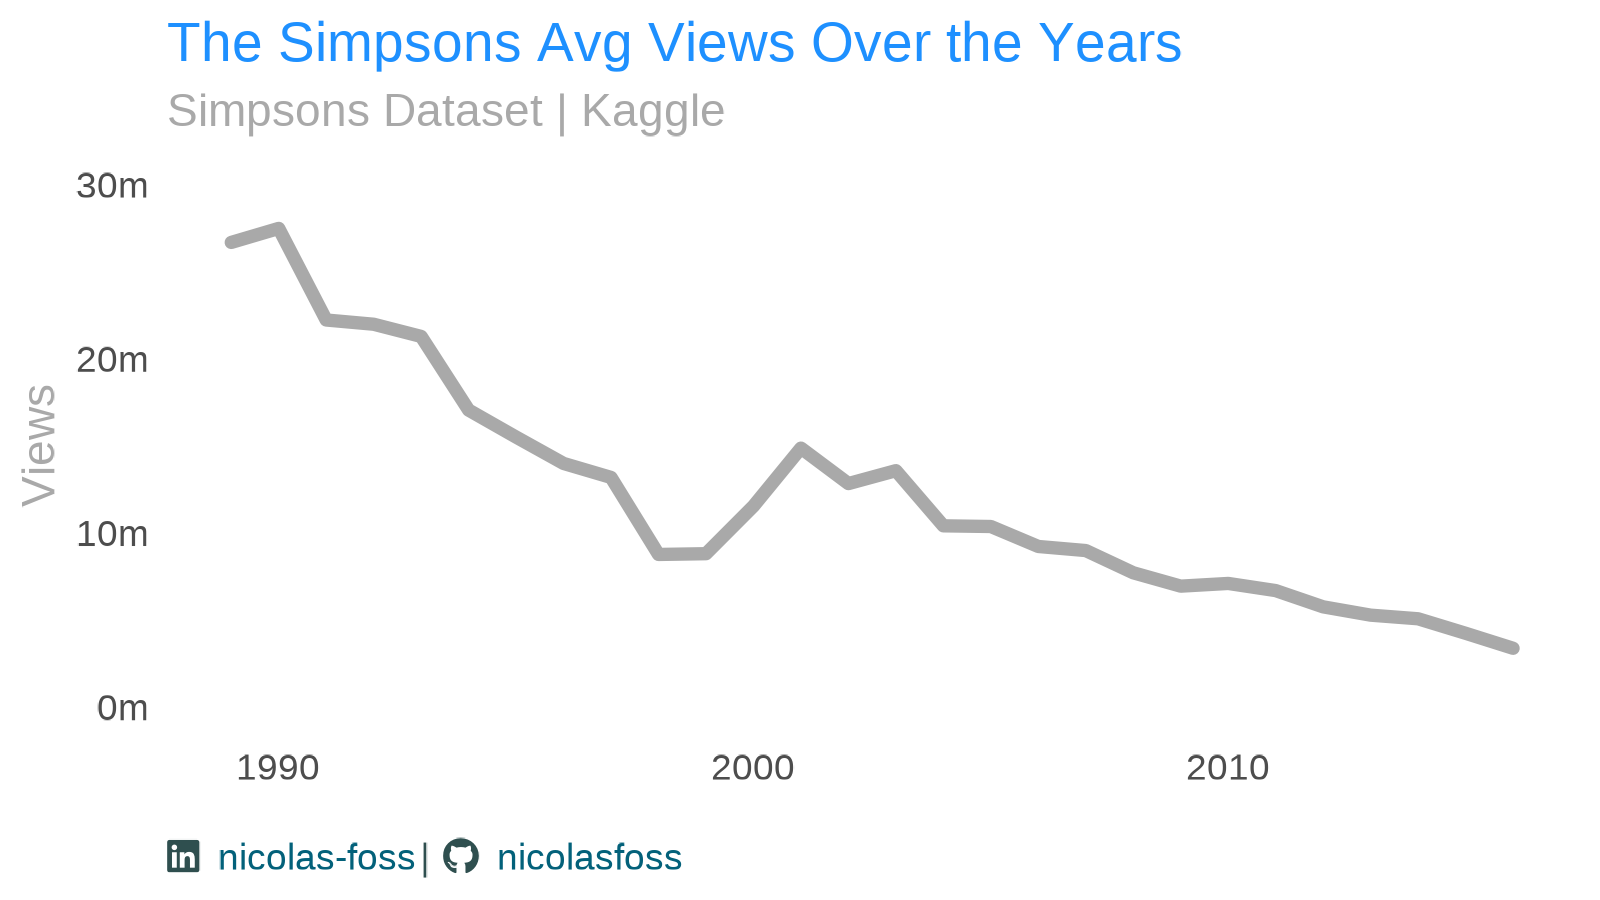
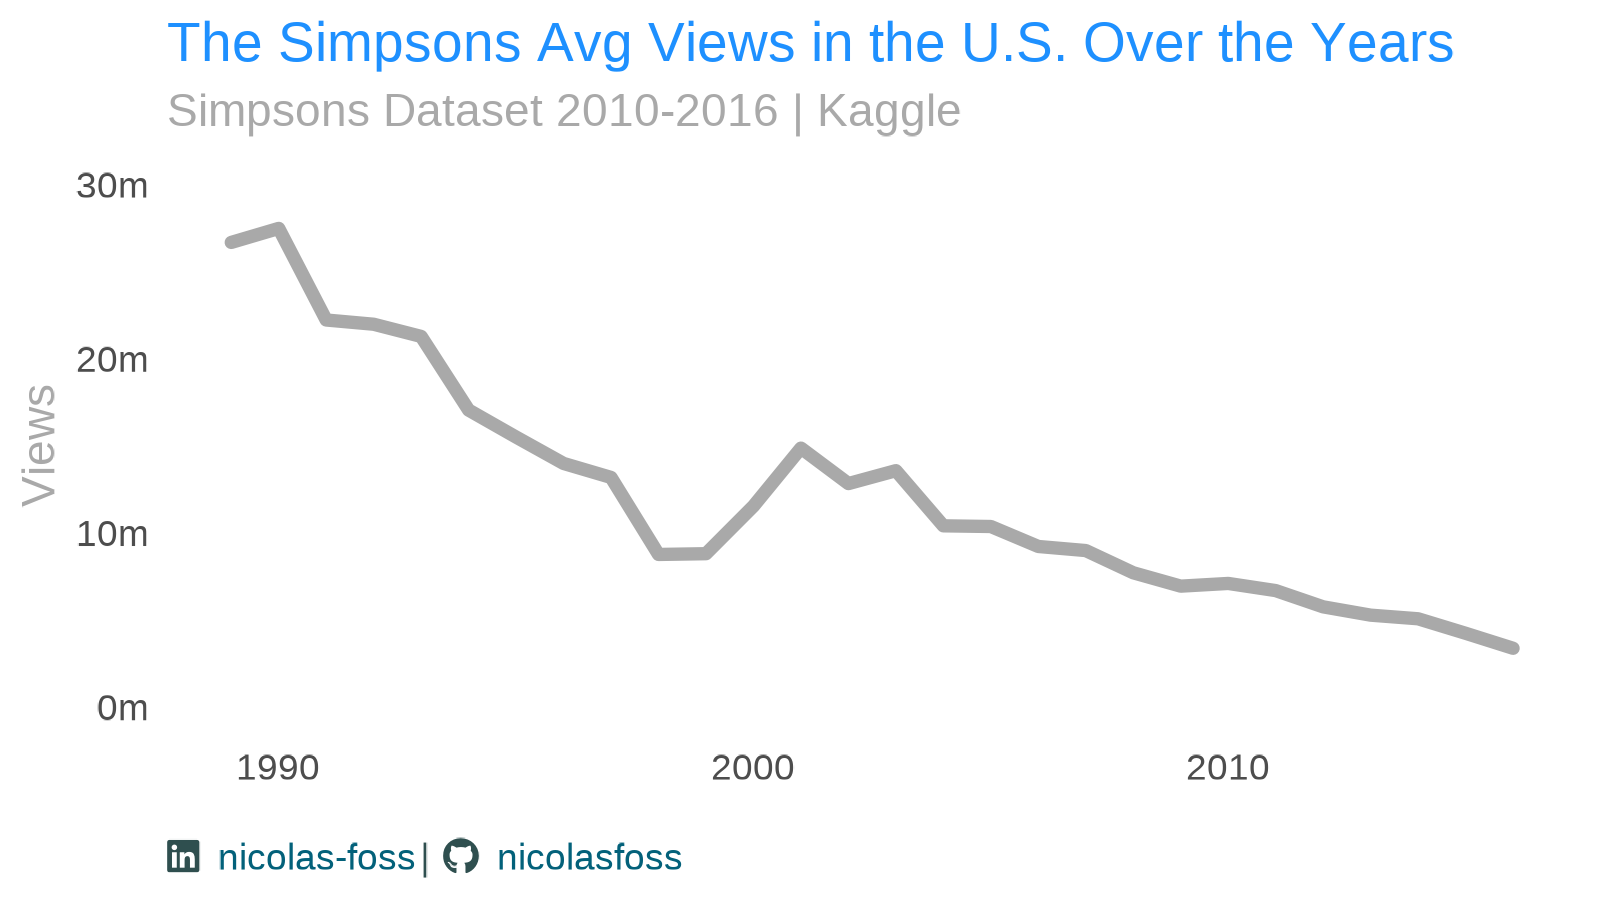
updated files for the final submission

Changed region(s): [[0.3438, 0.0, 0.9062, 0.1556]]

diff --git a/data/curated/simpsons/intro.md b/data/curated/simpsons/intro.md
@@ -1,4 +1,4 @@
-This week, we are going to explore the Simpsons Dataset from [Kaggle](https://www.kaggle.com/datasets/prashant111/the-simpsons-dataset).  Many thanks to [Prashant Banerjee](https://www.kaggle.com/prashant111) for making this dataset available to the public.  The Simpsons Dataset is comprised of four files that contain the characters, locations, episode details, and script lines for approximately 600 Simpsons episodes.
+This week, we are going to explore the Simpsons Dataset from [Kaggle](https://www.kaggle.com/datasets/prashant111/the-simpsons-dataset).  Many thanks to [Prashant Banerjee](https://www.kaggle.com/prashant111) for making this dataset available to the public.  The Simpsons Dataset is comprised of four files that contain the characters, locations, episode details, and script lines for approximately 600 Simpsons episodes.  Please note that episodes and script lines have been filtered down to only include episodes from 2010 to 2016 in the episodes data to keep file size within Tidy Tuesday guidelines!
 
 Here is some history on the Simpsons Dataset from the author:
 
